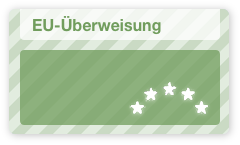
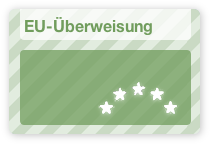
Überweisungsseite umgestaltet, um kleinere Bildschirmauflösungen (bis minimal 800px Höhe) zu unterstützen. Dazu wurden auch die Bilder verkleinert.

diff --git a/client/Source/TransfersController.m b/client/Source/TransfersController.m
@@ -477,15 +477,13 @@ extern NSString *TransferTemplateDataType;        // For dragging one of the sto
     bankCode.delegate = self;
     
     transferInternalImage.controller = self;
-    [transferInternalImage setFrameCenterRotation: -5];
+    [transferInternalImage setFrameCenterRotation: -10];
     transferNormalImage.controller = self;
-    [transferNormalImage setFrameCenterRotation: -5];
+    [transferNormalImage setFrameCenterRotation: -10];
     transferEUImage.controller = self;
-    [transferEUImage setFrameCenterRotation: -5];
+    [transferEUImage setFrameCenterRotation: -10];
     transferSEPAImage.controller = self;
-    [transferSEPAImage setFrameCenterRotation: -5];
-    transferDebitImage.controller = self;
-    [transferDebitImage setFrameCenterRotation: -5];
+    [transferSEPAImage setFrameCenterRotation: -10];
     
     transferDeleteImage.controller = self;
     

diff --git a/client/Source/TransfersBackgroundView.m b/client/Source/TransfersBackgroundView.m
@@ -84,11 +84,11 @@ static NSShadow* borderShadow = nil;
     [dragTargetPath stroke];
     
     // Draw a highlight effect over everything.
-    NSGradient *highlight = [[[NSGradient alloc] initWithStartingColor: [NSColor colorWithCalibratedWhite: 1 alpha: 0.6]
+    NSGradient *highlight = [[[NSGradient alloc] initWithStartingColor: [NSColor colorWithCalibratedWhite: 1 alpha: 0.3]
                                                           endingColor: [NSColor colorWithCalibratedWhite: 1 alpha: 0]] autorelease];
 
     CGFloat height = self.bounds.size.height;
-    NSPoint centerPoint = NSMakePoint(NSMidX(self.bounds), 2 * height);
+    NSPoint centerPoint = NSMakePoint(NSMidX(self.bounds), height + 1);
     NSPoint otherPoint = NSMakePoint(centerPoint.x, height);
     [highlight drawFromCenter: centerPoint radius: 1 toCenter: otherPoint radius: height options: 0];
     

diff --git a/client/Source/TransfersController.h b/client/Source/TransfersController.h
@@ -91,7 +91,6 @@
     IBOutlet NSButton      *sendTransfersButton;
     IBOutlet NSTextField   *templateName;
     
-    IBOutlet DragImageView  *transferDebitImage;
     IBOutlet DragImageView  *transferInternalImage;
     IBOutlet DragImageView  *transferNormalImage;
     IBOutlet DragImageView  *transferEUImage;
